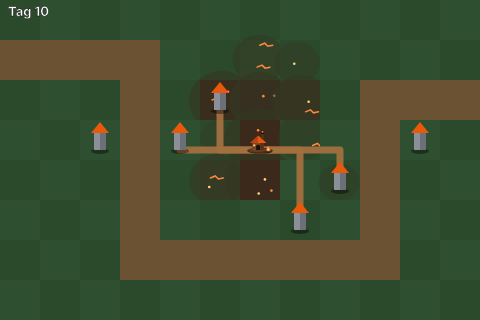
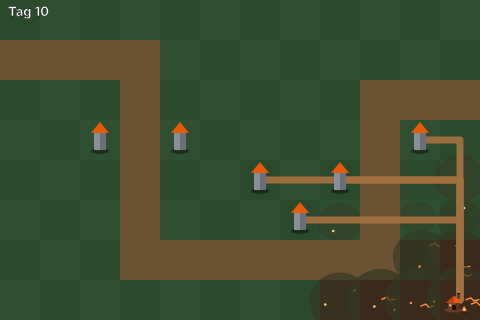
Welt-Entwurf: Dorf in der Ecke unten rechts, Wege als Astwerk
Claude-Session: https://claude.ai/code/session_012Nsno37nEjc4wateER8C5H

diff --git a/tools/dorf/dorf.html b/tools/dorf/dorf.html
@@ -155,8 +155,8 @@ const WORLD={
  st:{base:'#6f6a60',hi:'#8d887c',acc:'#b8b2a6',acc2:'#d9cba6',road:'#b7a47c',roadE:'#6a5c3f'}};
 const GRASS=['#2b4a2b','#2f5030'];
 const MON=[[0,1],[3,1],[3,6],[9,6],[9,2],[11,2]];            // Monsterweg (Kacheln)
-const TOW=[[4,3],[5,2],[8,4],[7,5],[2,3],[10,3]];             // Türme, nach Abstand zum Dorf
-const VIL=[6,3];
+const TOW=[[10,3],[8,4],[7,5],[6,4],[4,3],[2,3]];             // Türme, nach Abstand zum Dorf
+const VIL=[11,7];
 const STG=[
  {t:'Tag 1',v:0,R:0,np:0,pave:0},
  {t:'Tag 10',v:2,R:2.0,np:4,pave:0},
@@ -168,7 +168,7 @@ function welt(k,si){
  const onMon=new Set();
  for(let i=0;i<MON.length-1;i++){const [x0,y0]=MON[i],[x1,y1]=MON[i+1];for(let x=Math.min(x0,x1);x<=Math.max(x0,x1);x++)for(let y=Math.min(y0,y1);y<=Math.max(y0,y1);y++)onMon.add(x+','+y)}
  const cx=(VIL[0]+.5)*T,cy=(VIL[1]+.5)*T;
- const level=(x,y)=>{if(S.R<=0)return 0;const d=Math.hypot(x-VIL[0],(y-VIL[1])*1.15);return Math.max(0,Math.min(1,(S.R-d+(hs(x,y)-.5)*2.2)/1.4))};
+ const level=(x,y)=>{if(S.R<=0)return 0;const d=Math.hypot(x-VIL[0],(y-VIL[1])*1.15);return Math.max(0,Math.min(1,(S.R*1.6-d+(hs(x,y)-.5)*2.2)/1.4))};
  for(let y=0;y<8;y++)for(let x=0;x<12;x++){
   const mon=onMon.has(x+','+y),lv=mon?0:level(x,y),px=x*T,py=y*T;
   b+=`<rect x="${px}" y="${py}" width="${T}" height="${T}" fill="${mon?'#6b5233':GRASS[(x+y)&1]}"/>`;
@@ -188,7 +188,7 @@ function welt(k,si){
  // Wege Dorf → Türme
  const R=W.road,E=W.roadE;
  const pw=(x,y)=>[(x+.5)*T,(y+.5)*T];
- for(let i=0;i<S.np;i++){const [tx,ty]=TOW[i],[ax,ay]=pw(VIL[0],VIL[1]),[bx,by]=pw(tx,ty),d=`M${ax} ${ay+10}H${bx}V${by}`;
+ for(let i=0;i<S.np;i++){const [tx,ty]=TOW[i],[ax,ay]=pw(VIL[0],VIL[1]),[bx,by]=pw(tx,ty),d=`M${ax} ${ay}V${by}H${bx}`;
   if(S.pave===2) b+=`<path d="${d}" stroke="${E}" stroke-width="17" fill="none" stroke-linejoin="round" stroke-linecap="round"/><path d="${d}" stroke="${R}" stroke-width="13" fill="none" stroke-linejoin="round" stroke-linecap="round"/><path d="${d}" stroke="${E}" stroke-width="13" fill="none" stroke-linejoin="round" stroke-dasharray="1.5 7.5" opacity=".55"/>`;
   else if(S.pave===1) b+=`<path d="${d}" stroke="${E}" stroke-width="13" fill="none" stroke-linejoin="round" stroke-linecap="round"/><path d="${d}" stroke="${R}" stroke-width="9" fill="none" stroke-linejoin="round" stroke-linecap="round"/>`;
   else b+=`<path d="${d}" stroke="${R}" stroke-width="7" fill="none" stroke-linejoin="round" stroke-linecap="round" stroke-dasharray="${i?'':'1 0'}" opacity=".95"/>`;
@@ -196,12 +196,12 @@ function welt(k,si){
  // Türme
  for(let i=0;i<TOW.length;i++){const [tx,ty]=pw(...TOW[i]),a=W.acc;b+=`<ellipse cx="${tx}" cy="${ty+11}" rx="9" ry="3" fill="#0006"/><rect x="${tx-6}" y="${ty-8}" width="12" height="18" fill="#8a8f98"/><rect x="${tx}" y="${ty-8}" width="6" height="18" fill="#6b7078"/><path d="M${tx-9} ${ty-7}L${tx} ${ty-18}L${tx+9} ${ty-7}Z" fill="${k==='e'?'#79c6ee':k==='s'?'#7a4be0':k==='f'?'#e8590c':'#a4753e'}"/>`}
  // Dorf (1 Feld)
- const v=village(k,S.v).replace(/width="216" height="228"/,'width="46" height="48.5"').replace('<svg ','<svg x="'+(cx-23)+'" y="'+(cy-32)+'" ');
+ const v=village(k,S.v).replace(/width="216" height="228"/,'width="46" height="48.5"').replace('<svg ','<svg x="'+(cx-27)+'" y="'+(cy-32)+'" ');
  b+=v;
  b+=`<text x="8" y="16" font-size="13" font-weight="700" fill="${k==='e'?'#2f5a78':'#fff'}" stroke="${k==='e'?'#fff':'#000'}" stroke-width=".4">${S.t}</text>`;
  return svg('0 0 480 320',480,320,b);
 }
-h+=`<h2>4 · Welt um das Dorf: Boden wandelt sich, Wege wachsen (Vorschlag 27.10.)</h2><p class="n">Ausschnitt 12 × 8 Felder. Braun = Monsterweg (bleibt unverändert, immer gut erkennbar). Vom Dorf aus wächst der Boden in Ringen zum Element um (Asche, Schnee, Violett, Geröll), unregelmäßig, nicht kreisrund. Wege: Tag 10 Trampelpfade zu 4 Türmen, Tag 22 zu 5, Tag 36 gepflasterte Straße zu allen 6, Tag 42 Straße mit Rand zu allen.</p>`;
+h+=`<h2>4 · Welt um das Dorf: Boden wandelt sich, Wege wachsen (Vorschlag 27.10.)</h2><p class="n">Ausschnitt 12 × 8 Felder, Dorf in der Ecke unten rechts (Wege kreuzen den Monsterweg, laufen darüber hinweg). Braun = Monsterweg (bleibt unverändert, immer gut erkennbar). Vom Dorf aus wächst der Boden in Ringen zum Element um (Asche, Schnee, Violett, Geröll), unregelmäßig, nicht kreisrund. Wege: Tag 10 Trampelpfade zu 4 Türmen, Tag 22 zu 5, Tag 36 gepflasterte Straße zu allen 6, Tag 42 Straße mit Rand zu allen.</p>`;
 for(const k of KS){h+=`<div class="row"><div class="lab">${SN[k]}</div>`;for(let i=0;i<5;i++)h+=cell(`welt-${k}-${i}`,STG[i].t,welt(k,i));h+='</div>';}
 out.innerHTML=h;
 </script>

diff --git a/team/IDEEN.md b/team/IDEEN.md
@@ -19,4 +19,4 @@ Format: **Idee** – von wem, wann – Stand (offen · dafür · verworfen) – 
 
 - **Feuer: Brennen schwächer, Direktschaden höher** (L, 18.10.): Brennende Monster sterben oft erst beim Nachbarn, Kill und Kopfgeld gehen an ihn. Eigene Kills machen mehr Spaß. Alternative: Kopfgeld für Brand-Kills an den Spieler, der angezündet hat. Noch nicht beschlossen, erst im Bot messen.
 
-- Dorf-Welt (27.10., F): Boden um das Dorf wandelt sich stufenweise zur Element-Welt (Asche/Lava, Schnee, Violett, Geröll), Wege wachsen vom Dorf zu den Türmen (Trampelpfad (Tag 10: 4 Türme, Tag 22: 5) → Straße (Tag 36) → Straße mit Rand (Tag 42) → gepflastert). Entwurf: assets/dorf-entwurf/_welt-uebersicht.png (Quelle tools/dorf/dorf.html, Abschnitt 4). Offen: nur Optik oder Spielwirkung? Lesbarkeit von Monsterweg/Gelände.
+- Dorf-Welt (27.10., F; Dorf in der Ecke unten rechts): Boden um das Dorf wandelt sich stufenweise zur Element-Welt (Asche/Lava, Schnee, Violett, Geröll), Wege wachsen vom Dorf zu den Türmen (Trampelpfad (Tag 10: 4 Türme, Tag 22: 5) → Straße (Tag 36) → Straße mit Rand (Tag 42) → gepflastert). Entwurf: assets/dorf-entwurf/_welt-uebersicht.png (Quelle tools/dorf/dorf.html, Abschnitt 4). Offen: nur Optik oder Spielwirkung? Lesbarkeit von Monsterweg/Gelände.
